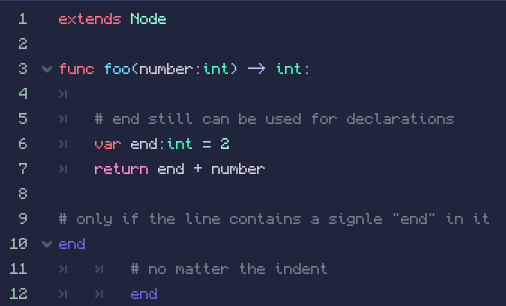
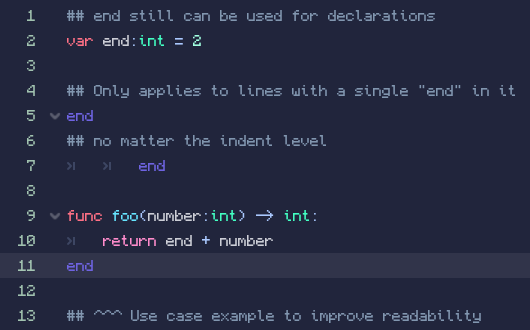
README AGIAN!

diff --git a/README.md b/README.md
@@ -1,4 +1,4 @@
-# Godot Engine Cooky's Additon's
+# Godot Engine Cooky's Addition's
 
 
 Added wildcard keywords that act like empty lines,
